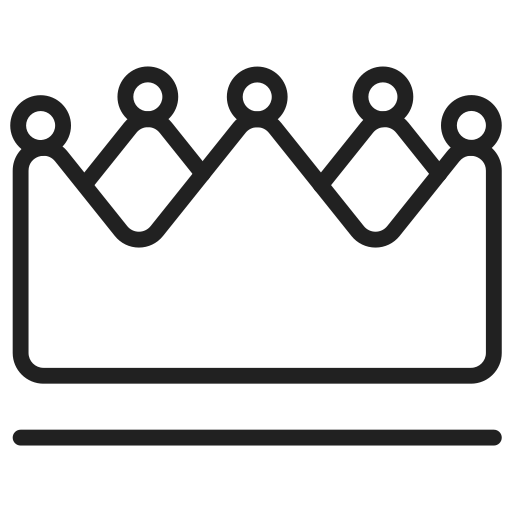
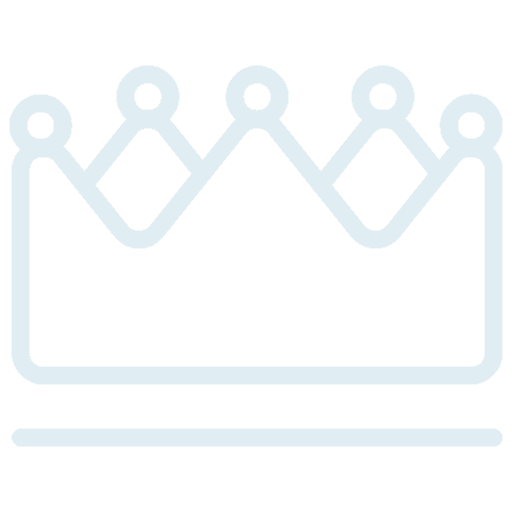
Ajustes no Layout
Ajustes no Layout
- Troca de Cor da Coroas;
- Ajustes na tabela;
- Posicionamento dos Tools;

Changed region(s): [[0.0, 0.125, 1.0, 0.75], [0.0, 0.8125, 1.0, 0.875]]

diff --git a/style.css b/style.css
@@ -1,14 +1,66 @@
+<<<<<<< Updated upstream
+=======
+h1{
+    font-family: 'Lucida Sans', sans-serif;
+    font-size: xxx-large;
+    text-align: center;
+    margin: auto;
+    margin-top: 20px;
+}
+
+#jogo{
+    margin: auto;
+    display: inline-flex;
+    margin-top: 20px;
+}
+
+#relogio{
+    font-family: 'Lucida Sans', sans-serif;
+    font-size: xx-large;
+    text-align: center;
+
+    border-color: black;
+    border-style: groove;
+    margin-top: 2em;
+    border-radius: 15px;
+
+    margin-bottom: 10px;
+    height: 3.5em;
+}
+>>>>>>> Stashed changes
 
 h1{
     text-align: center;
+<<<<<<< Updated upstream
 }
 table{
     margin: auto;
     border: 15px solid black;
     border-style: groove;
+=======
+    border-style: groove;
+    margin-bottom: 10px;
+    border-color: black;
+    border-radius: 15px;
+
+}
+
+#vez img , #informacoes img {
+    padding: 30px; 
+}
+table{
+    border: 12px solid black;
+    border-style: groove; 
+    border-radius: 15px;
+    margin-left: 30px;
+    margin-right: 30px;
+    table-layout: fixed;
+    width: 200px;
+>>>>>>> Stashed changes
 }
 tr, td{
     margin: 4px 4px;
+    overflow: hidden;
 }
 tr{
     border: 4px solid rgb(114, 113, 113);
@@ -35,7 +87,69 @@ td:hover,tr:hover{
     height: 50px;
     width: 50px;
 }
+<<<<<<< Updated upstream
 #ask_white{
     height: 50px;
     width: 50px;
+=======
+#ceminterio{
+    border: 10px solid black; 
+    border-style: groove;
+    border-radius: 15px;
+    width: 150px;
+    height: 550px;
+    margin: 0;
+    margin-left: 3vw;
+}
+#ceminterio2{
+    border: 10px solid black;
+    border-style: groove;
+    border-radius: 15px;
+
+    width: 150px;
+    height: 550px;
+    margin: 0;
+}
+#tools{
+    width: 150px;
+    height: 550px;
+    margin: 0;
+    margin-left: 3vw; 
+}
+h2{
+    font-family: 'Lucida Sans', sans-serif;
+    font-size: large;
+    text-align: center;
+    text-decoration: underline;
+}
+#informacoes h2{
+    font-family: 'Lucida Sans', sans-serif;
+    font-size: 10px;
+    font-size: small;
+    text-align: center;
+    text-decoration: underline;
+}
+.dead_ask{
+    height: 35px;
+    width: 35px;
+}
+ul {
+    list-style-type: decimal-leading-zero;
+    list-style-position: inside;
+    font-family: Impact, sans-serif;
+  }
+footer{
+    margin: auto;
+    display: contents;
+    margin-top: 10px;
+    margin-left: 250px;
+}
+h4{
+    font-family: 'Lucida Sans', sans-serif;
+    font-size: large;   
+}
+#info{
+    height: 35px;
+    width: 35px;
+>>>>>>> Stashed changes
 }
